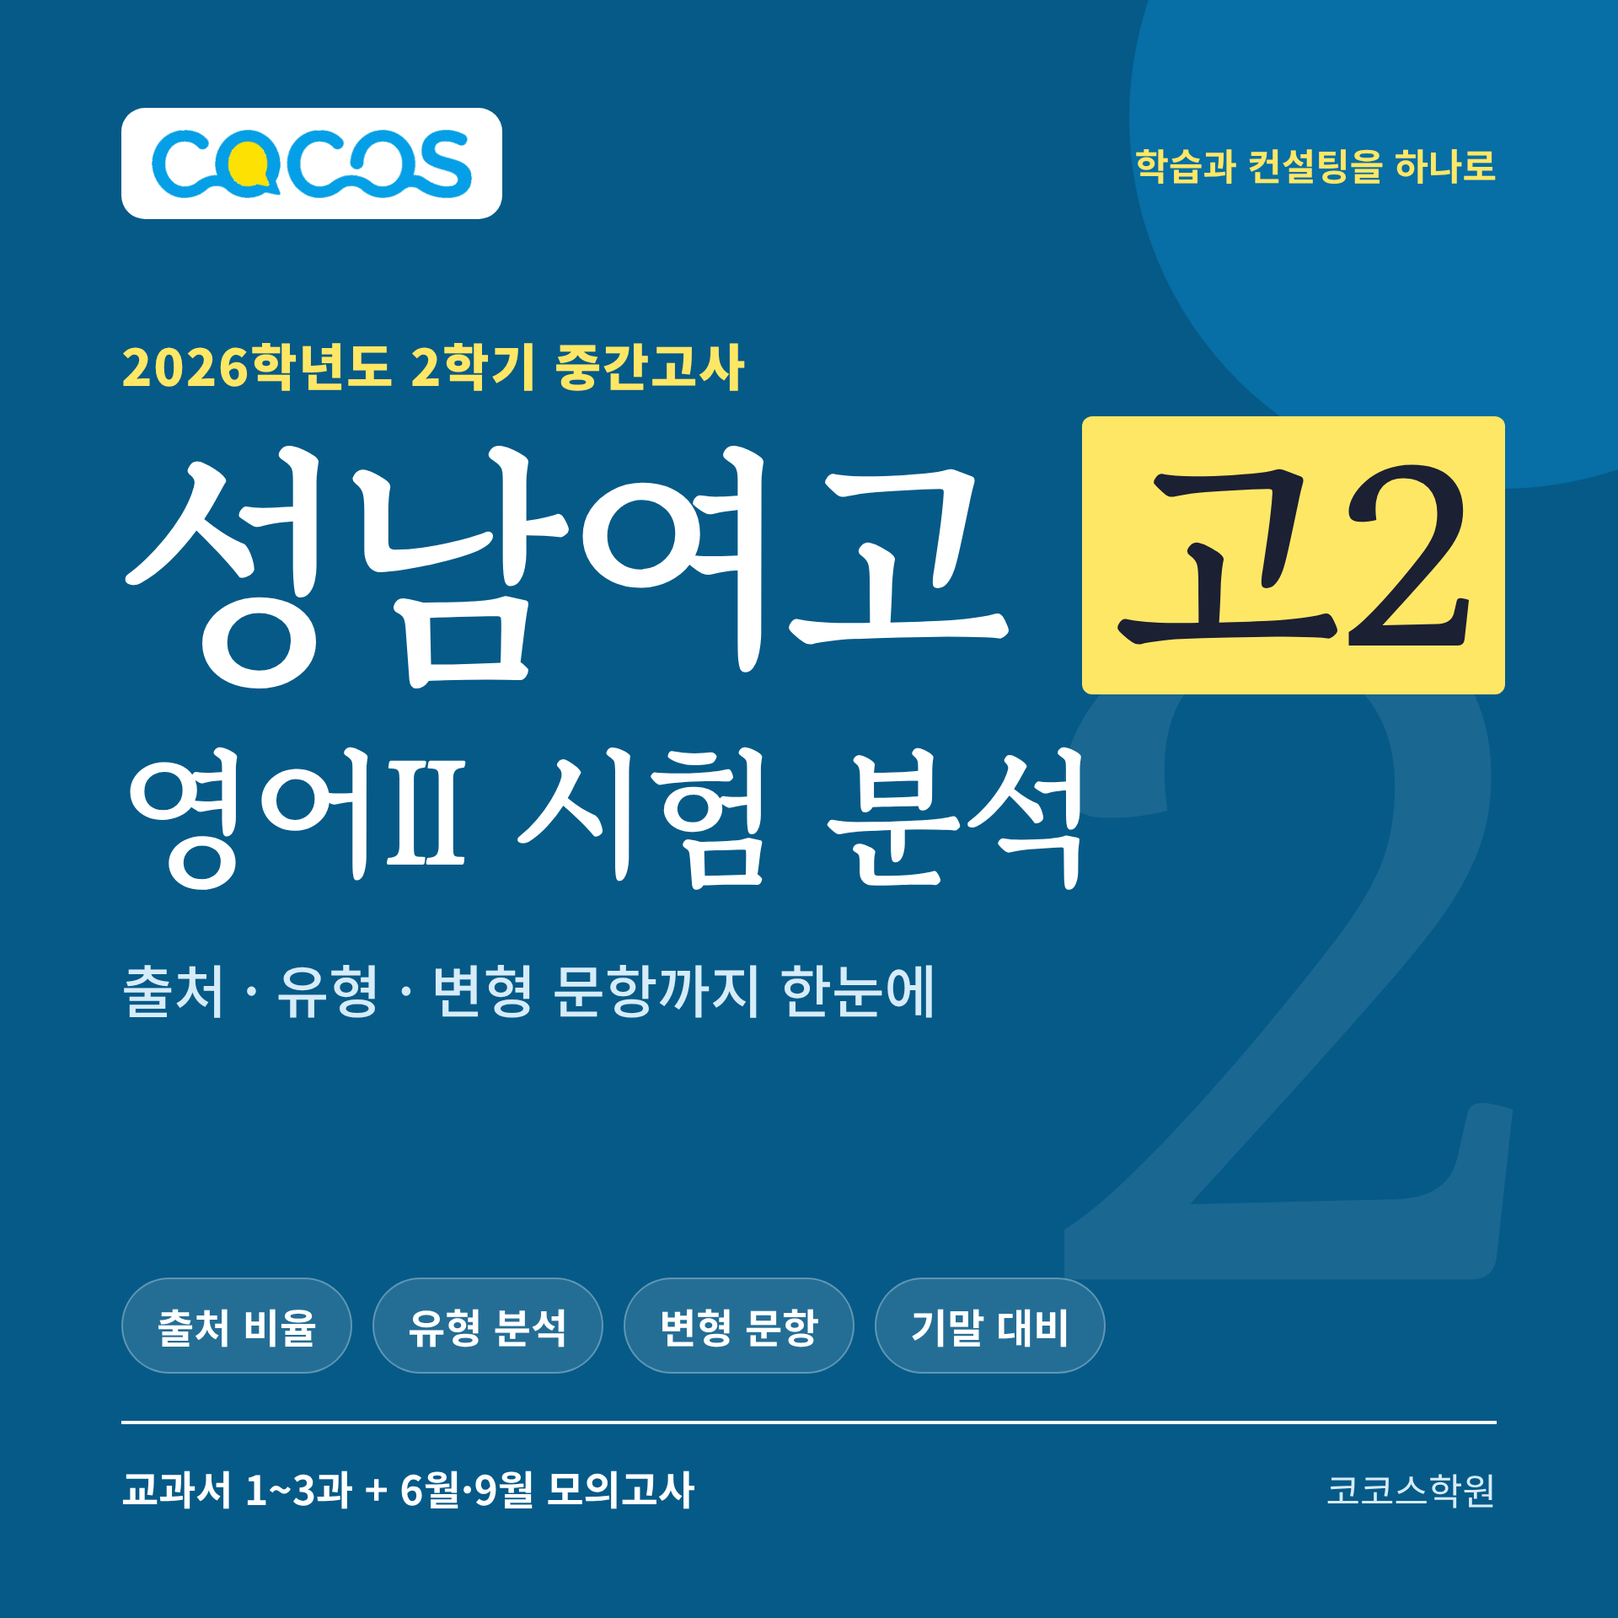
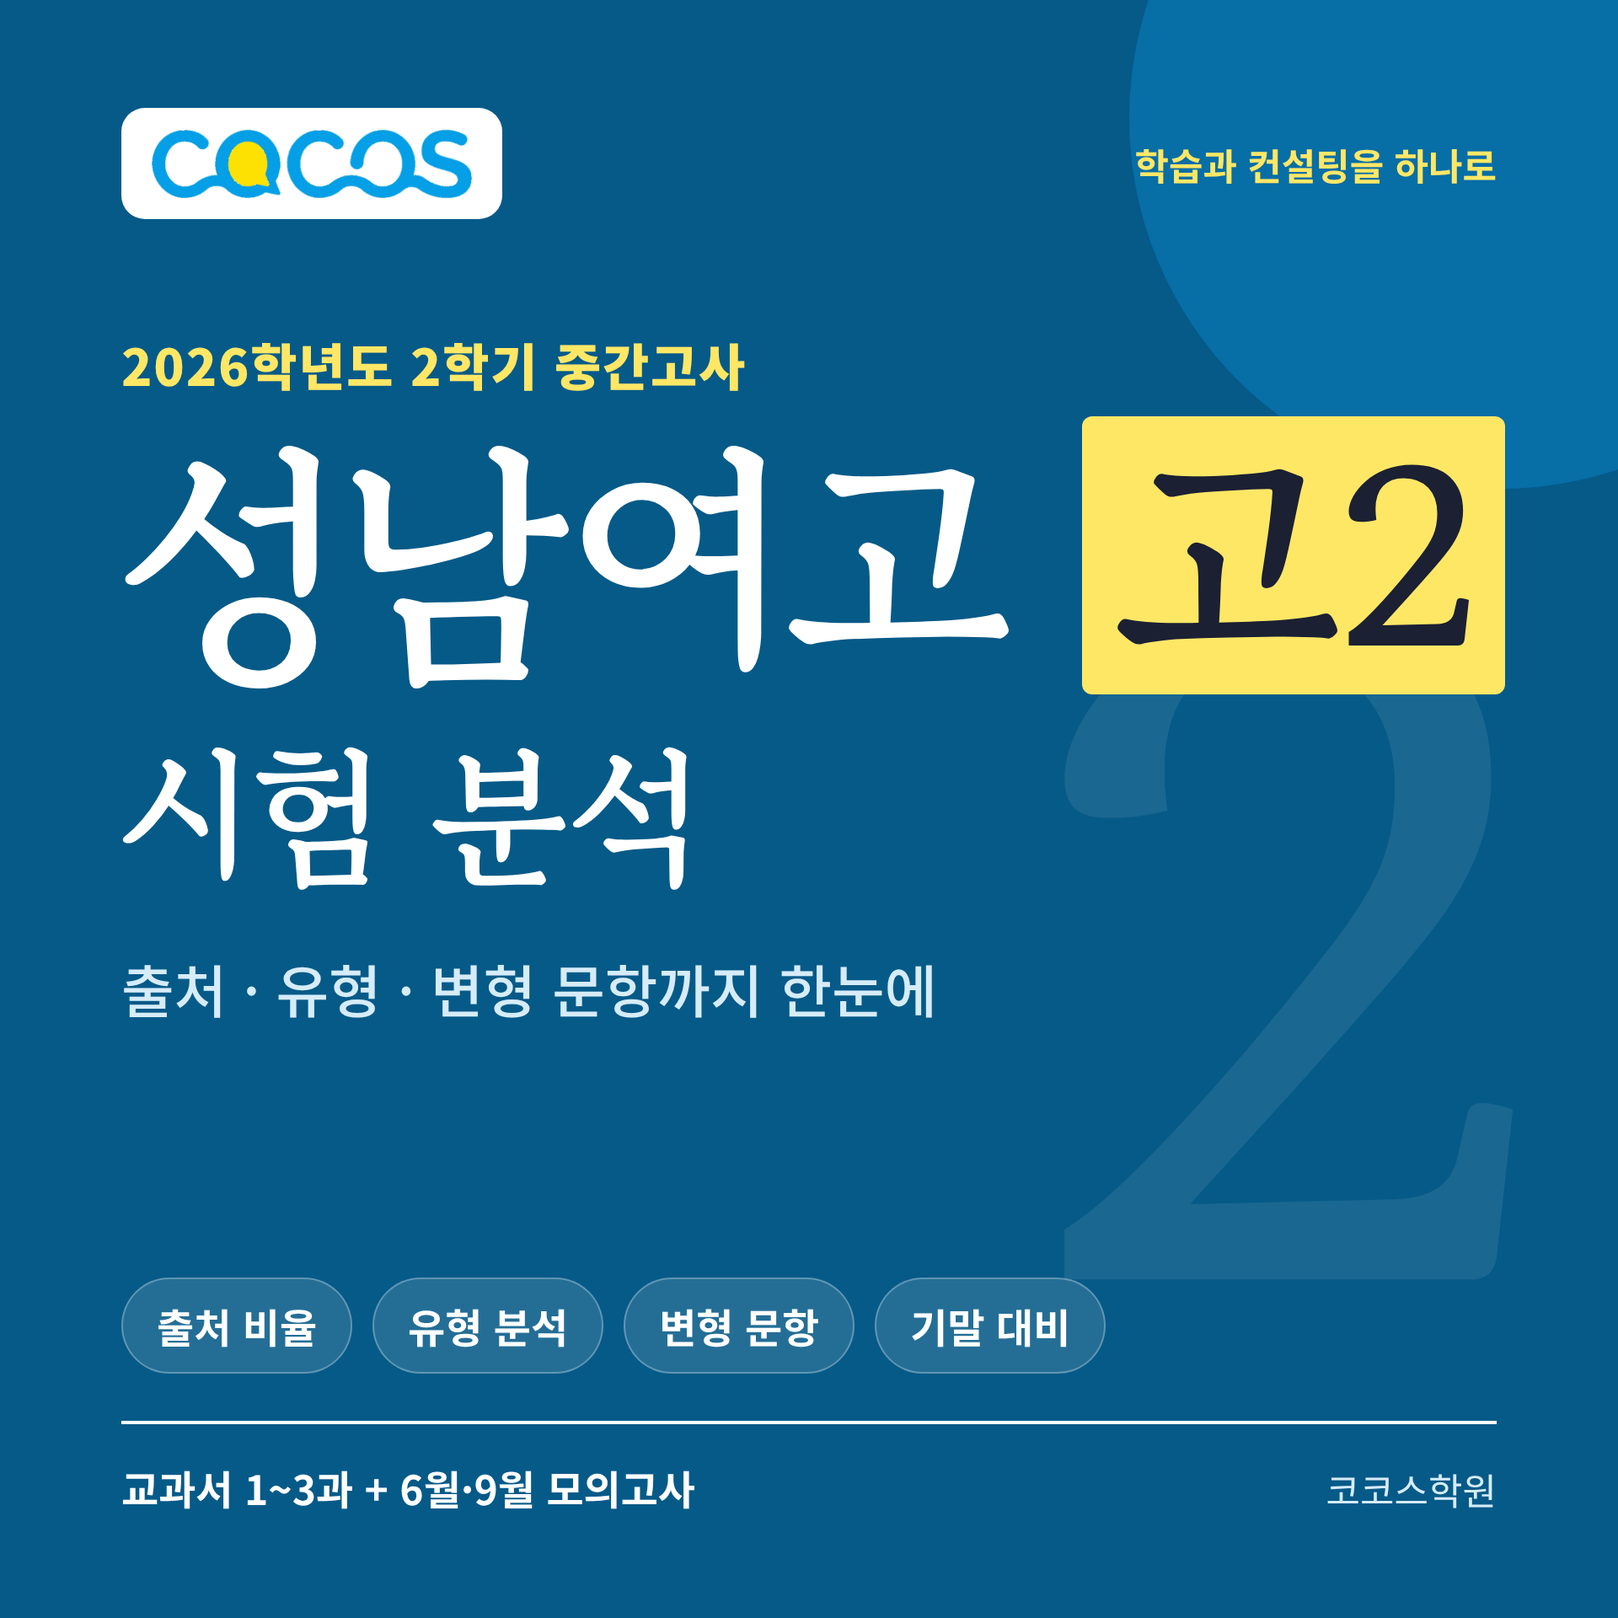
성남여고 고2 중간고사 분석 블로그: 대표 이미지·제목에서 영어II 표기 빼기
Claude-Session: https://claude.ai/code/session_01B2EyByYhVUqSZHNrsjWNn6

Changed region(s): [[0.0625, 0.4688, 0.4688, 0.5625], [0.5, 0.4688, 0.6875, 0.5625]]

diff --git a/tools/exam-blog/2026-2-mid-seongnam-girls-g2/index.html b/tools/exam-blog/2026-2-mid-seongnam-girls-g2/index.html
@@ -67,7 +67,7 @@ button:focus-visible,a:focus-visible{outline:2px solid var(--accent);outline-off
 <div class="wrap">
   <header>
     <span class="eyebrow">코코스학원 · 블로그 글쓰기 도우미</span>
-    <h1>성남여고 고2 2학기 중간고사 영어Ⅱ 분석 블로그 원고</h1>
+    <h1>성남여고 고2 2학기 중간고사 영어 분석 블로그 원고</h1>
     <p>네이버 블로그에 링크째 붙여 넣을 수 있는 원고와 이미지 6장이에요. 정답은 넣지 않았어요.</p>
   </header>
 
@@ -103,7 +103,7 @@ button:focus-visible,a:focus-visible{outline:2px solid var(--accent);outline-off
 </div>
 
 <script>
-var D={"title": "2026 성남여고 2학년 2학기 중간고사 영어Ⅱ 분석 | 출제 비율·유형·변형 문항 총정리", "tags": "성남여고 성남여고영어 성남여고내신 고2영어내신 영어2내신 중간고사분석 내신시험분석 영어변형문제 6월고2모의고사 9월고2모의고사 성남동영어학원", "body": [["p", "[대표 이미지]"], ["p", "성남여고 2학년 2학기 중간고사 영어Ⅱ 시험지를 문항별로 분석했어요."], ["p", "시험 범위는 교과서(NE능률 오선영) 1~3과와 2026년 6월·9월 고2 모의고사 일부 지문이었어요."], ["p", "어디서 몇 문제가 나왔는지, 어떤 유형으로 바뀌었는지, 지문을 어떻게 변형했는지 정리했으니 기말고사 준비에 참고해 주세요."], ["b", "■ 1. 시험 구성"], ["img", "[이미지 1 · 시험 구성과 출처 비율]"], ["p", "· 객관식 21문항 80점 + 서술형(논술형) 5문항 20점, 모두 26문항이에요."], ["p", "· 객관식 배점은 3.4~4.2점으로 차이가 크지 않아서, 한 문제 실수가 그대로 등급에 영향을 줘요."], ["p", "· 객관식 선택지는 19문항이 영어였고, 한글 선택지는 2문항뿐이었어요."], ["b", "■ 2. 어디서 나왔나요? (출처별 비율)"], ["p", "· 6월 모의고사 17문항 · 64.7점"], ["p", "· 9월 모의고사 2문항 · 8.1점"], ["p", "· 교과서 1~3과 7문항 · 27.2점"], ["p", "· 부교재 0문항 (이번 범위에 부교재가 없었어요)"], ["br"], ["p", "모의고사 범위 19지문 중 18지문이 출제됐어요. 빠진 지문은 6월 26번(인물 소개 글) 하나뿐이에요."], ["p", "교과서는 2과(시민 과학)가 15.5점으로 가장 많이 나왔어요."], ["p", "범위 지문을 골라서 공부하면 안 되는 시험이었어요."], ["b", "■ 3. 어떤 유형이 나왔나요?"], ["img", "[이미지 2 · 문제 유형별 배점]"], ["p", "· 빈칸 추론 5문항(20.0점)과 글의 흐름(무관한 문장·순서·문장 삽입) 5문항(19.5점)이 객관식 배점의 절반이었어요."], ["p", "· 이어서 대의 파악(요지·제목·주제) 4문항, 어법 3문항, 내용 불일치 2문항, 어휘 1문항, 요약문 1문항이 나왔어요."], ["p", "· 가장 높은 배점(4.2점)은 빈칸, 교과서 내용 불일치, 지문을 늘린 어휘 문항에 걸렸어요."], ["p", "· 서술형은 보기 단어를 골라 어형을 바꿔 쓰는 빈칸(9점), 보기 어구로 요약문·문장 완성(8점), 어법 오류 고치기(3점)로 나왔어요."], ["p", "· 장문 세트는 교과서 2과 STEVE 지문과 6월 41~42번, 두 개였어요."], ["b", "■ 4. 모의고사 지문은 유형이 모두 바뀌었어요"], ["img", "[이미지 3 · 모의고사 지문의 출제 유형]"], ["p", "모의고사 지문으로 나온 19문항 가운데 원래 모의고사와 같은 유형으로 나온 문항은 하나도 없었어요."], ["p", "· 원래 빈칸 문제였던 31~34번 지문은 주제·제목·순서·서술형 영작으로 나왔어요."], ["p", "· 대신 주장·주제·순서·요약문 지문(20·23·37·40번)이 빈칸으로 나왔어요."], ["p", "원래 문제의 정답 문장만 외워서는 풀기 어려운 구성이에요."], ["b", "■ 5. 지문 변형은 이렇게 나왔어요"], ["img", "[이미지 4 · 지문·어휘 변형 분석]"], ["p", "출제 지문 23개 중 12개(52%)는 본문까지 바꾼 변형 지문이었어요. 교과서 지문은 5개 모두, 모의고사 지문은 18개 중 7개가 바뀌었어요."], ["br"], ["p", "① 원문에 없는 문장 새로 넣기 (5·6번)"], ["p", "같은 소재와 같은 단어를 쓰지만 글의 논지와 어긋나는 문장을 새로 써서 넣었어요. 바로 앞 문장의 단어를 이어받아 자연스러워 보이게 만든 점이 특징이에요."], ["br"], ["p", "② 원서 문단 덧붙이기 (13번, 서술형 4)"], ["p", "모의고사 지문 앞이나 뒤에 원래 글의 다른 문단을 붙여 지문이 길어졌어요. 13번은 밑줄 다섯 개 중 세 개가, 서술형 4는 빈칸 다섯 개 중 네 개가 처음 보는 문단에 있었어요."], ["br"], ["p", "③ 교과서 문단 잇기·줄이기 (1·12·16·17·21번, 서술형 1·3)"], ["p", "여러 문단을 이어 붙이거나 일부를 통째로 뺐어요. 3과 투표 이야기는 세 가지 투표 방법 중 하나를 빼고 두 가지로 다시 썼어요."], ["br"], ["p", "④ 원문 표현을 틀린 형태로 바꾸기 (16·18·21번, 서술형 3)"], ["p", "교과서·모의고사 원문의 맞는 표현을 틀리게 바꿔 어법 문제로 냈어요. 수일치, what과 that, 감각동사 뒤 형용사, allow + 목적어 + to부정사, 관계사절과 to부정사 구별 같은 기본 포인트가 나왔어요."], ["br"], ["p", "⑤ 반의어로 바꾸기 (13번)"], ["p", "문맥과 반대 뜻이 되도록 낱말을 바꿔 쓴 어휘 문항이었어요."], ["br"], ["p", "⑥ 정답을 같은 뜻 다른 표현으로 (9·10·11·19·20번)"], ["p", "빈칸·요약문 정답이 원문 표현 그대로가 아니라 같은 뜻의 다른 표현으로 나왔어요."], ["br"], ["p", "⑦ 요약문·대화문 새로 쓰기 (20번, 서술형 1·2)"], ["p", "요약문이나 대화문을 새로 써서, 원문 단어가 아닌 같은 뜻의 다른 단어를 고르게 했어요."], ["b", "■ 6. 기말고사는 이렇게 준비해요"], ["img", "[이미지 5 · 기말고사 대비 포인트]"], ["p", "1. 지문 하나를 빈칸·순서·삽입·무관·요약·제목으로 모두 풀어 보기"], ["p", "2. 모의고사 지문의 원래 글 앞뒤 내용까지 알아 두기"], ["p", "3. 같은 소재·다른 논지 문장 골라내기 연습"], ["p", "4. 핵심 문장의 동의어·반의어 표현 정리"], ["p", "5. 교과서 본문 어법 포인트(수일치, what/that, 준동사, 관계사, 가정법) 점검"], ["p", "6. 서술형 어형 변화(품사·시제·수일치) 연습"], ["b", "■ 시험 범위 모의고사, 이렇게 공부해요"], ["p", "코코스학원 온라인 학습지로 지문별 해석·단어·변형 문제까지 공부할 수 있어요."], ["p", "▶ 2026년 6월 고2 모의고사 온라인 학습지"], ["link", "https://cocosedu.kr/study/2026-06-g2/", "https://cocosedu.kr/study/2026-06-g2/"], ["p", "▶ 2026년 9월 고2 모의고사 온라인 학습지"], ["link", "https://cocosedu.kr/study/2026-09-g2/", "https://cocosedu.kr/study/2026-09-g2/"], ["p", "▶ 6월 고2 동의어·반의어 (어휘 변형 대비)"], ["link", "https://cocosedu.kr/syn/2026-06-g2/", "https://cocosedu.kr/syn/2026-06-g2/"], ["br"], ["p", "이 글은 코코스학원이 시험지를 직접 분석해 정리한 자료예요."], ["p", "시험 문제와 지문의 저작권은 학교와 출제처에 있어 시험지 이미지와 문제 원문, 정답은 싣지 않았어요."], ["p", "내용을 복제·수정해 다른 곳에 올리거나 상업적으로 이용하는 것은 금지해요."]], "imgs": [{"src": "00-thumb.png", "name": "성남여고_고2_2학기중간_00_대표이미지.png", "cap": "대표 이미지"}, {"src": "01-source.png", "name": "성남여고_고2_2학기중간_01_시험구성_출처비율.png", "cap": "이미지 1 · 시험 구성과 출처 비율"}, {"src": "02-types.png", "name": "성남여고_고2_2학기중간_02_문제유형별_배점.png", "cap": "이미지 2 · 문제 유형별 배점"}, {"src": "03-convert.png", "name": "성남여고_고2_2학기중간_03_모의고사_유형전환.png", "cap": "이미지 3 · 모의고사 지문의 출제 유형"}, {"src": "04-variation.png", "name": "성남여고_고2_2학기중간_04_지문변형_분석.png", "cap": "이미지 4 · 지문·어휘 변형 분석"}, {"src": "05-final.png", "name": "성남여고_고2_2학기중간_05_기말고사_대비.png", "cap": "이미지 5 · 기말고사 대비 포인트"}]};
+var D={"title": "2026 성남여고 2학년 2학기 중간고사 영어 분석 | 출제 비율·유형·변형 문항 총정리", "tags": "성남여고 성남여고영어 성남여고내신 고2영어내신 영어2내신 중간고사분석 내신시험분석 영어변형문제 6월고2모의고사 9월고2모의고사 성남동영어학원", "body": [["p", "[대표 이미지]"], ["p", "성남여고 2학년 2학기 중간고사 영어 시험지를 문항별로 분석했어요."], ["p", "시험 범위는 교과서(NE능률 오선영) 1~3과와 2026년 6월·9월 고2 모의고사 일부 지문이었어요."], ["p", "어디서 몇 문제가 나왔는지, 어떤 유형으로 바뀌었는지, 지문을 어떻게 변형했는지 정리했으니 기말고사 준비에 참고해 주세요."], ["b", "■ 1. 시험 구성"], ["img", "[이미지 1 · 시험 구성과 출처 비율]"], ["p", "· 객관식 21문항 80점 + 서술형(논술형) 5문항 20점, 모두 26문항이에요."], ["p", "· 객관식 배점은 3.4~4.2점으로 차이가 크지 않아서, 한 문제 실수가 그대로 등급에 영향을 줘요."], ["p", "· 객관식 선택지는 19문항이 영어였고, 한글 선택지는 2문항뿐이었어요."], ["b", "■ 2. 어디서 나왔나요? (출처별 비율)"], ["p", "· 6월 모의고사 17문항 · 64.7점"], ["p", "· 9월 모의고사 2문항 · 8.1점"], ["p", "· 교과서 1~3과 7문항 · 27.2점"], ["p", "· 부교재 0문항 (이번 범위에 부교재가 없었어요)"], ["br"], ["p", "모의고사 범위 19지문 중 18지문이 출제됐어요. 빠진 지문은 6월 26번(인물 소개 글) 하나뿐이에요."], ["p", "교과서는 2과(시민 과학)가 15.5점으로 가장 많이 나왔어요."], ["p", "범위 지문을 골라서 공부하면 안 되는 시험이었어요."], ["b", "■ 3. 어떤 유형이 나왔나요?"], ["img", "[이미지 2 · 문제 유형별 배점]"], ["p", "· 빈칸 추론 5문항(20.0점)과 글의 흐름(무관한 문장·순서·문장 삽입) 5문항(19.5점)이 객관식 배점의 절반이었어요."], ["p", "· 이어서 대의 파악(요지·제목·주제) 4문항, 어법 3문항, 내용 불일치 2문항, 어휘 1문항, 요약문 1문항이 나왔어요."], ["p", "· 가장 높은 배점(4.2점)은 빈칸, 교과서 내용 불일치, 지문을 늘린 어휘 문항에 걸렸어요."], ["p", "· 서술형은 보기 단어를 골라 어형을 바꿔 쓰는 빈칸(9점), 보기 어구로 요약문·문장 완성(8점), 어법 오류 고치기(3점)로 나왔어요."], ["p", "· 장문 세트는 교과서 2과 STEVE 지문과 6월 41~42번, 두 개였어요."], ["b", "■ 4. 모의고사 지문은 유형이 모두 바뀌었어요"], ["img", "[이미지 3 · 모의고사 지문의 출제 유형]"], ["p", "모의고사 지문으로 나온 19문항 가운데 원래 모의고사와 같은 유형으로 나온 문항은 하나도 없었어요."], ["p", "· 원래 빈칸 문제였던 31~34번 지문은 주제·제목·순서·서술형 영작으로 나왔어요."], ["p", "· 대신 주장·주제·순서·요약문 지문(20·23·37·40번)이 빈칸으로 나왔어요."], ["p", "원래 문제의 정답 문장만 외워서는 풀기 어려운 구성이에요."], ["b", "■ 5. 지문 변형은 이렇게 나왔어요"], ["img", "[이미지 4 · 지문·어휘 변형 분석]"], ["p", "출제 지문 23개 중 12개(52%)는 본문까지 바꾼 변형 지문이었어요. 교과서 지문은 5개 모두, 모의고사 지문은 18개 중 7개가 바뀌었어요."], ["br"], ["p", "① 원문에 없는 문장 새로 넣기 (5·6번)"], ["p", "같은 소재와 같은 단어를 쓰지만 글의 논지와 어긋나는 문장을 새로 써서 넣었어요. 바로 앞 문장의 단어를 이어받아 자연스러워 보이게 만든 점이 특징이에요."], ["br"], ["p", "② 원서 문단 덧붙이기 (13번, 서술형 4)"], ["p", "모의고사 지문 앞이나 뒤에 원래 글의 다른 문단을 붙여 지문이 길어졌어요. 13번은 밑줄 다섯 개 중 세 개가, 서술형 4는 빈칸 다섯 개 중 네 개가 처음 보는 문단에 있었어요."], ["br"], ["p", "③ 교과서 문단 잇기·줄이기 (1·12·16·17·21번, 서술형 1·3)"], ["p", "여러 문단을 이어 붙이거나 일부를 통째로 뺐어요. 3과 투표 이야기는 세 가지 투표 방법 중 하나를 빼고 두 가지로 다시 썼어요."], ["br"], ["p", "④ 원문 표현을 틀린 형태로 바꾸기 (16·18·21번, 서술형 3)"], ["p", "교과서·모의고사 원문의 맞는 표현을 틀리게 바꿔 어법 문제로 냈어요. 수일치, what과 that, 감각동사 뒤 형용사, allow + 목적어 + to부정사, 관계사절과 to부정사 구별 같은 기본 포인트가 나왔어요."], ["br"], ["p", "⑤ 반의어로 바꾸기 (13번)"], ["p", "문맥과 반대 뜻이 되도록 낱말을 바꿔 쓴 어휘 문항이었어요."], ["br"], ["p", "⑥ 정답을 같은 뜻 다른 표현으로 (9·10·11·19·20번)"], ["p", "빈칸·요약문 정답이 원문 표현 그대로가 아니라 같은 뜻의 다른 표현으로 나왔어요."], ["br"], ["p", "⑦ 요약문·대화문 새로 쓰기 (20번, 서술형 1·2)"], ["p", "요약문이나 대화문을 새로 써서, 원문 단어가 아닌 같은 뜻의 다른 단어를 고르게 했어요."], ["b", "■ 6. 기말고사는 이렇게 준비해요"], ["img", "[이미지 5 · 기말고사 대비 포인트]"], ["p", "1. 지문 하나를 빈칸·순서·삽입·무관·요약·제목으로 모두 풀어 보기"], ["p", "2. 모의고사 지문의 원래 글 앞뒤 내용까지 알아 두기"], ["p", "3. 같은 소재·다른 논지 문장 골라내기 연습"], ["p", "4. 핵심 문장의 동의어·반의어 표현 정리"], ["p", "5. 교과서 본문 어법 포인트(수일치, what/that, 준동사, 관계사, 가정법) 점검"], ["p", "6. 서술형 어형 변화(품사·시제·수일치) 연습"], ["b", "■ 시험 범위 모의고사, 이렇게 공부해요"], ["p", "코코스학원 온라인 학습지로 지문별 해석·단어·변형 문제까지 공부할 수 있어요."], ["p", "▶ 2026년 6월 고2 모의고사 온라인 학습지"], ["link", "https://cocosedu.kr/study/2026-06-g2/", "https://cocosedu.kr/study/2026-06-g2/"], ["p", "▶ 2026년 9월 고2 모의고사 온라인 학습지"], ["link", "https://cocosedu.kr/study/2026-09-g2/", "https://cocosedu.kr/study/2026-09-g2/"], ["p", "▶ 6월 고2 동의어·반의어 (어휘 변형 대비)"], ["link", "https://cocosedu.kr/syn/2026-06-g2/", "https://cocosedu.kr/syn/2026-06-g2/"], ["br"], ["p", "이 글은 코코스학원이 시험지를 직접 분석해 정리한 자료예요."], ["p", "시험 문제와 지문의 저작권은 학교와 출제처에 있어 시험지 이미지와 문제 원문, 정답은 싣지 않았어요."], ["p", "내용을 복제·수정해 다른 곳에 올리거나 상업적으로 이용하는 것은 금지해요."]], "imgs": [{"src": "00-thumb.png", "name": "성남여고_고2_2학기중간_00_대표이미지.png", "cap": "대표 이미지"}, {"src": "01-source.png", "name": "성남여고_고2_2학기중간_01_시험구성_출처비율.png", "cap": "이미지 1 · 시험 구성과 출처 비율"}, {"src": "02-types.png", "name": "성남여고_고2_2학기중간_02_문제유형별_배점.png", "cap": "이미지 2 · 문제 유형별 배점"}, {"src": "03-convert.png", "name": "성남여고_고2_2학기중간_03_모의고사_유형전환.png", "cap": "이미지 3 · 모의고사 지문의 출제 유형"}, {"src": "04-variation.png", "name": "성남여고_고2_2학기중간_04_지문변형_분석.png", "cap": "이미지 4 · 지문·어휘 변형 분석"}, {"src": "05-final.png", "name": "성남여고_고2_2학기중간_05_기말고사_대비.png", "cap": "이미지 5 · 기말고사 대비 포인트"}]};
 function $(id){return document.getElementById(id)}
 function esc(t){return String(t).replace(/&/g,'&amp;').replace(/</g,'&lt;').replace(/>/g,'&gt;').replace(/"/g,'&quot;')}
 function a(href,text){return '<a href="'+esc(href)+'" target="_blank" rel="noopener">'+esc(text)+'</a>'}
